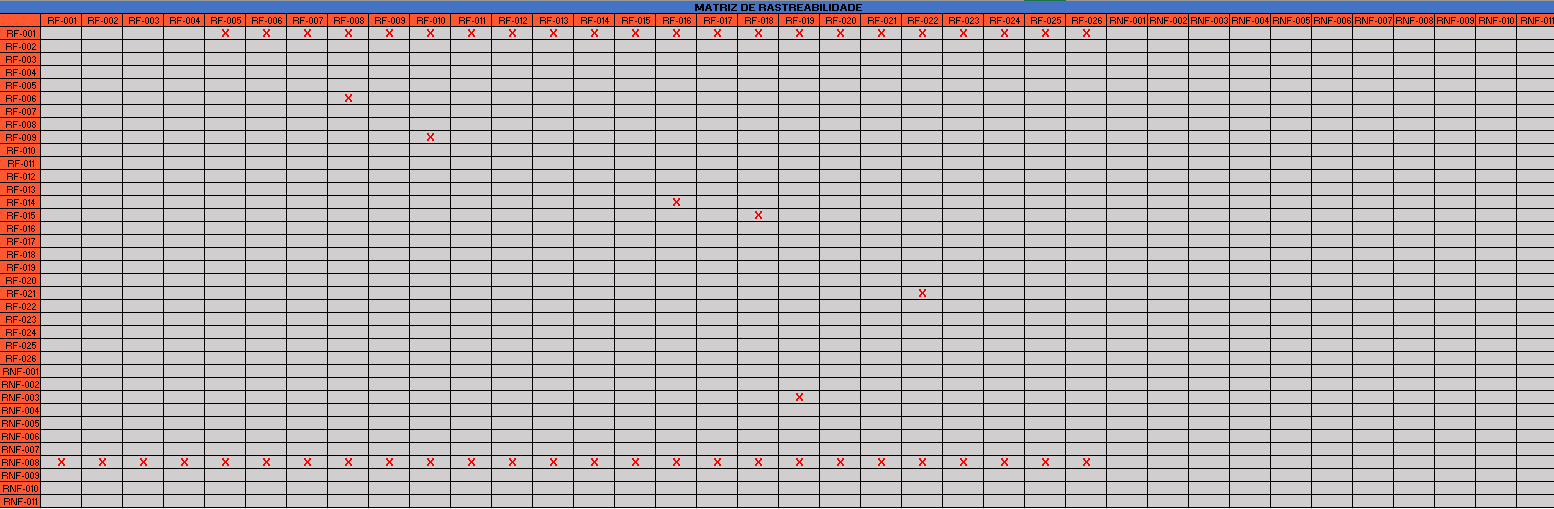
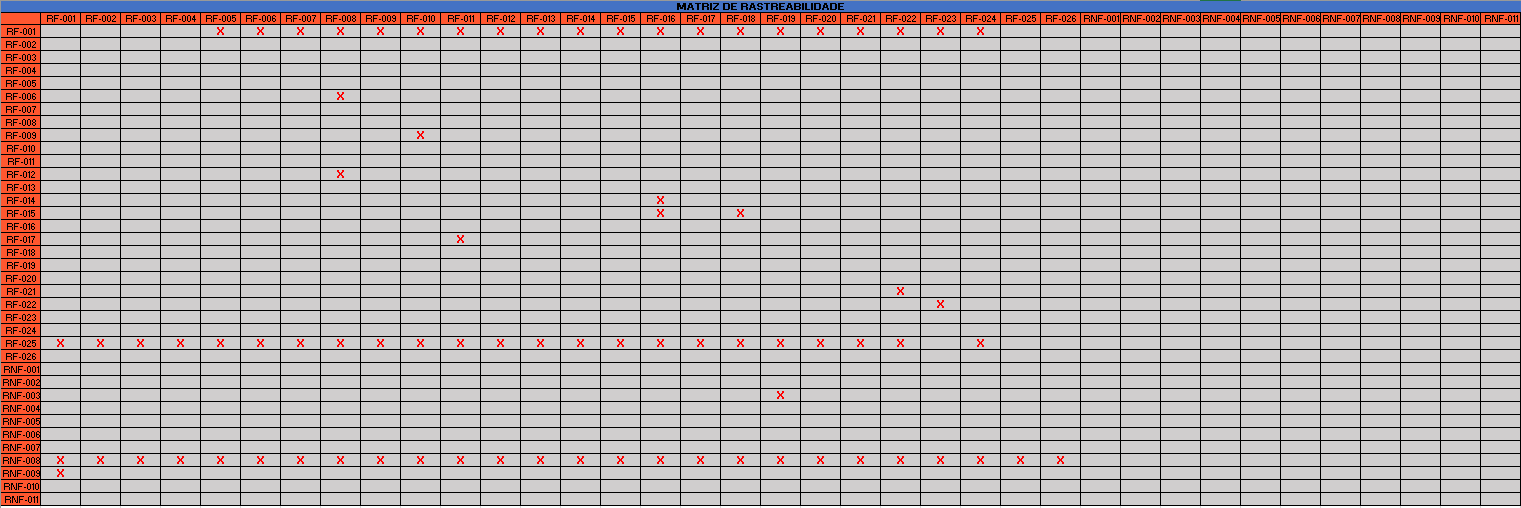
Matriz de Rastreabilidade

Changed region(s): [[0.0, 0.0, 1.0, 1.0]]

diff --git a/docs/02-Especificação do Projeto.md b/docs/02-Especificação do Projeto.md
@@ -188,7 +188,7 @@ O projeto está restrito pelos itens apresentados na tabela a seguir:
 
 A matriz de rastreabilidade é uma ferramenta usada para facilitar a visualização dos relacionamento entre requisitos e outros artefatos ou objetos, permitindo a rastreabilidade entre os requisitos e os objetivos de negócio.
 
-A matriz deve contemplar todos os elementos relevantes que fazem parte do sistema, conforme a figura meramente ilustrativa apresentada a seguir.
+A matriz deve contemplar todos os elementos relevantes que fazem parte do sistema, conforme a figura a seguir.
 
 ![Matriz de Rastreabilidade](img/02-matriz-rastreabilidade.png)
 
@@ -196,12 +196,17 @@ A matriz deve contemplar todos os elementos relevantes que fazem parte do sistem
 
 - A repetição do RF-001 se dá pelo fato de para acessar o aplicativo é necessário possuir login.
 - A tela referente no RF-008 está localizado na barra de navegação citado no RF-006.
+- O cliente após agendendar uma consulta (RF-012) O aplicativo deve fornecer uma tela inicial contendo suas próximas consultas (RF-008).
 - Para possuir a opção de filtragem de especilidades (RF-010) é necessario anteriormente possuir a filtragem de categorias (RF-009).
+- O profissional conseguindo fazer a personalização do seu perfil (RF-017) o cliente poderá saber mais sobre o profissional (RF-011).
 - A tela referente no RF-016 terá um atalho da mesma na tela do RF-014.
-- O RF-015 seria uma pré visulaização da tela RF-18.
+- O RF-015 seria uma pré-visualização da tela RF-018.
 - Ao aceitar entrar na consulta (RF-022) e não estiver ambos presentes haverá uma tela espera (RF-021).
+- Caso haja quedas de rede ou falhas técnicas o aplicativo deve possibilitar a reconexão (RF-023), com isso possibilitanto com que entre novamente na colsulta (RF-022).
+- A repetição do RF-025 se dá pelo fato de ser uma tela de carregamento (spinner).
+- O protocolo citado no RNF-003 será utilizado no RF-019.
 - A repetição do RNF-008 se dá pelo fato de a aplicação informar ao usuário sobre erros que impeçam o funcionamento correto do aplicativo.
-- o protocolo citado no RNF-003 será utilizado no RF-019.
+- (RNF-009)Será um sistema de segurança para proteger as informações dos usuários (RF-001).
 
 # Gerenciamento de Projeto
 
